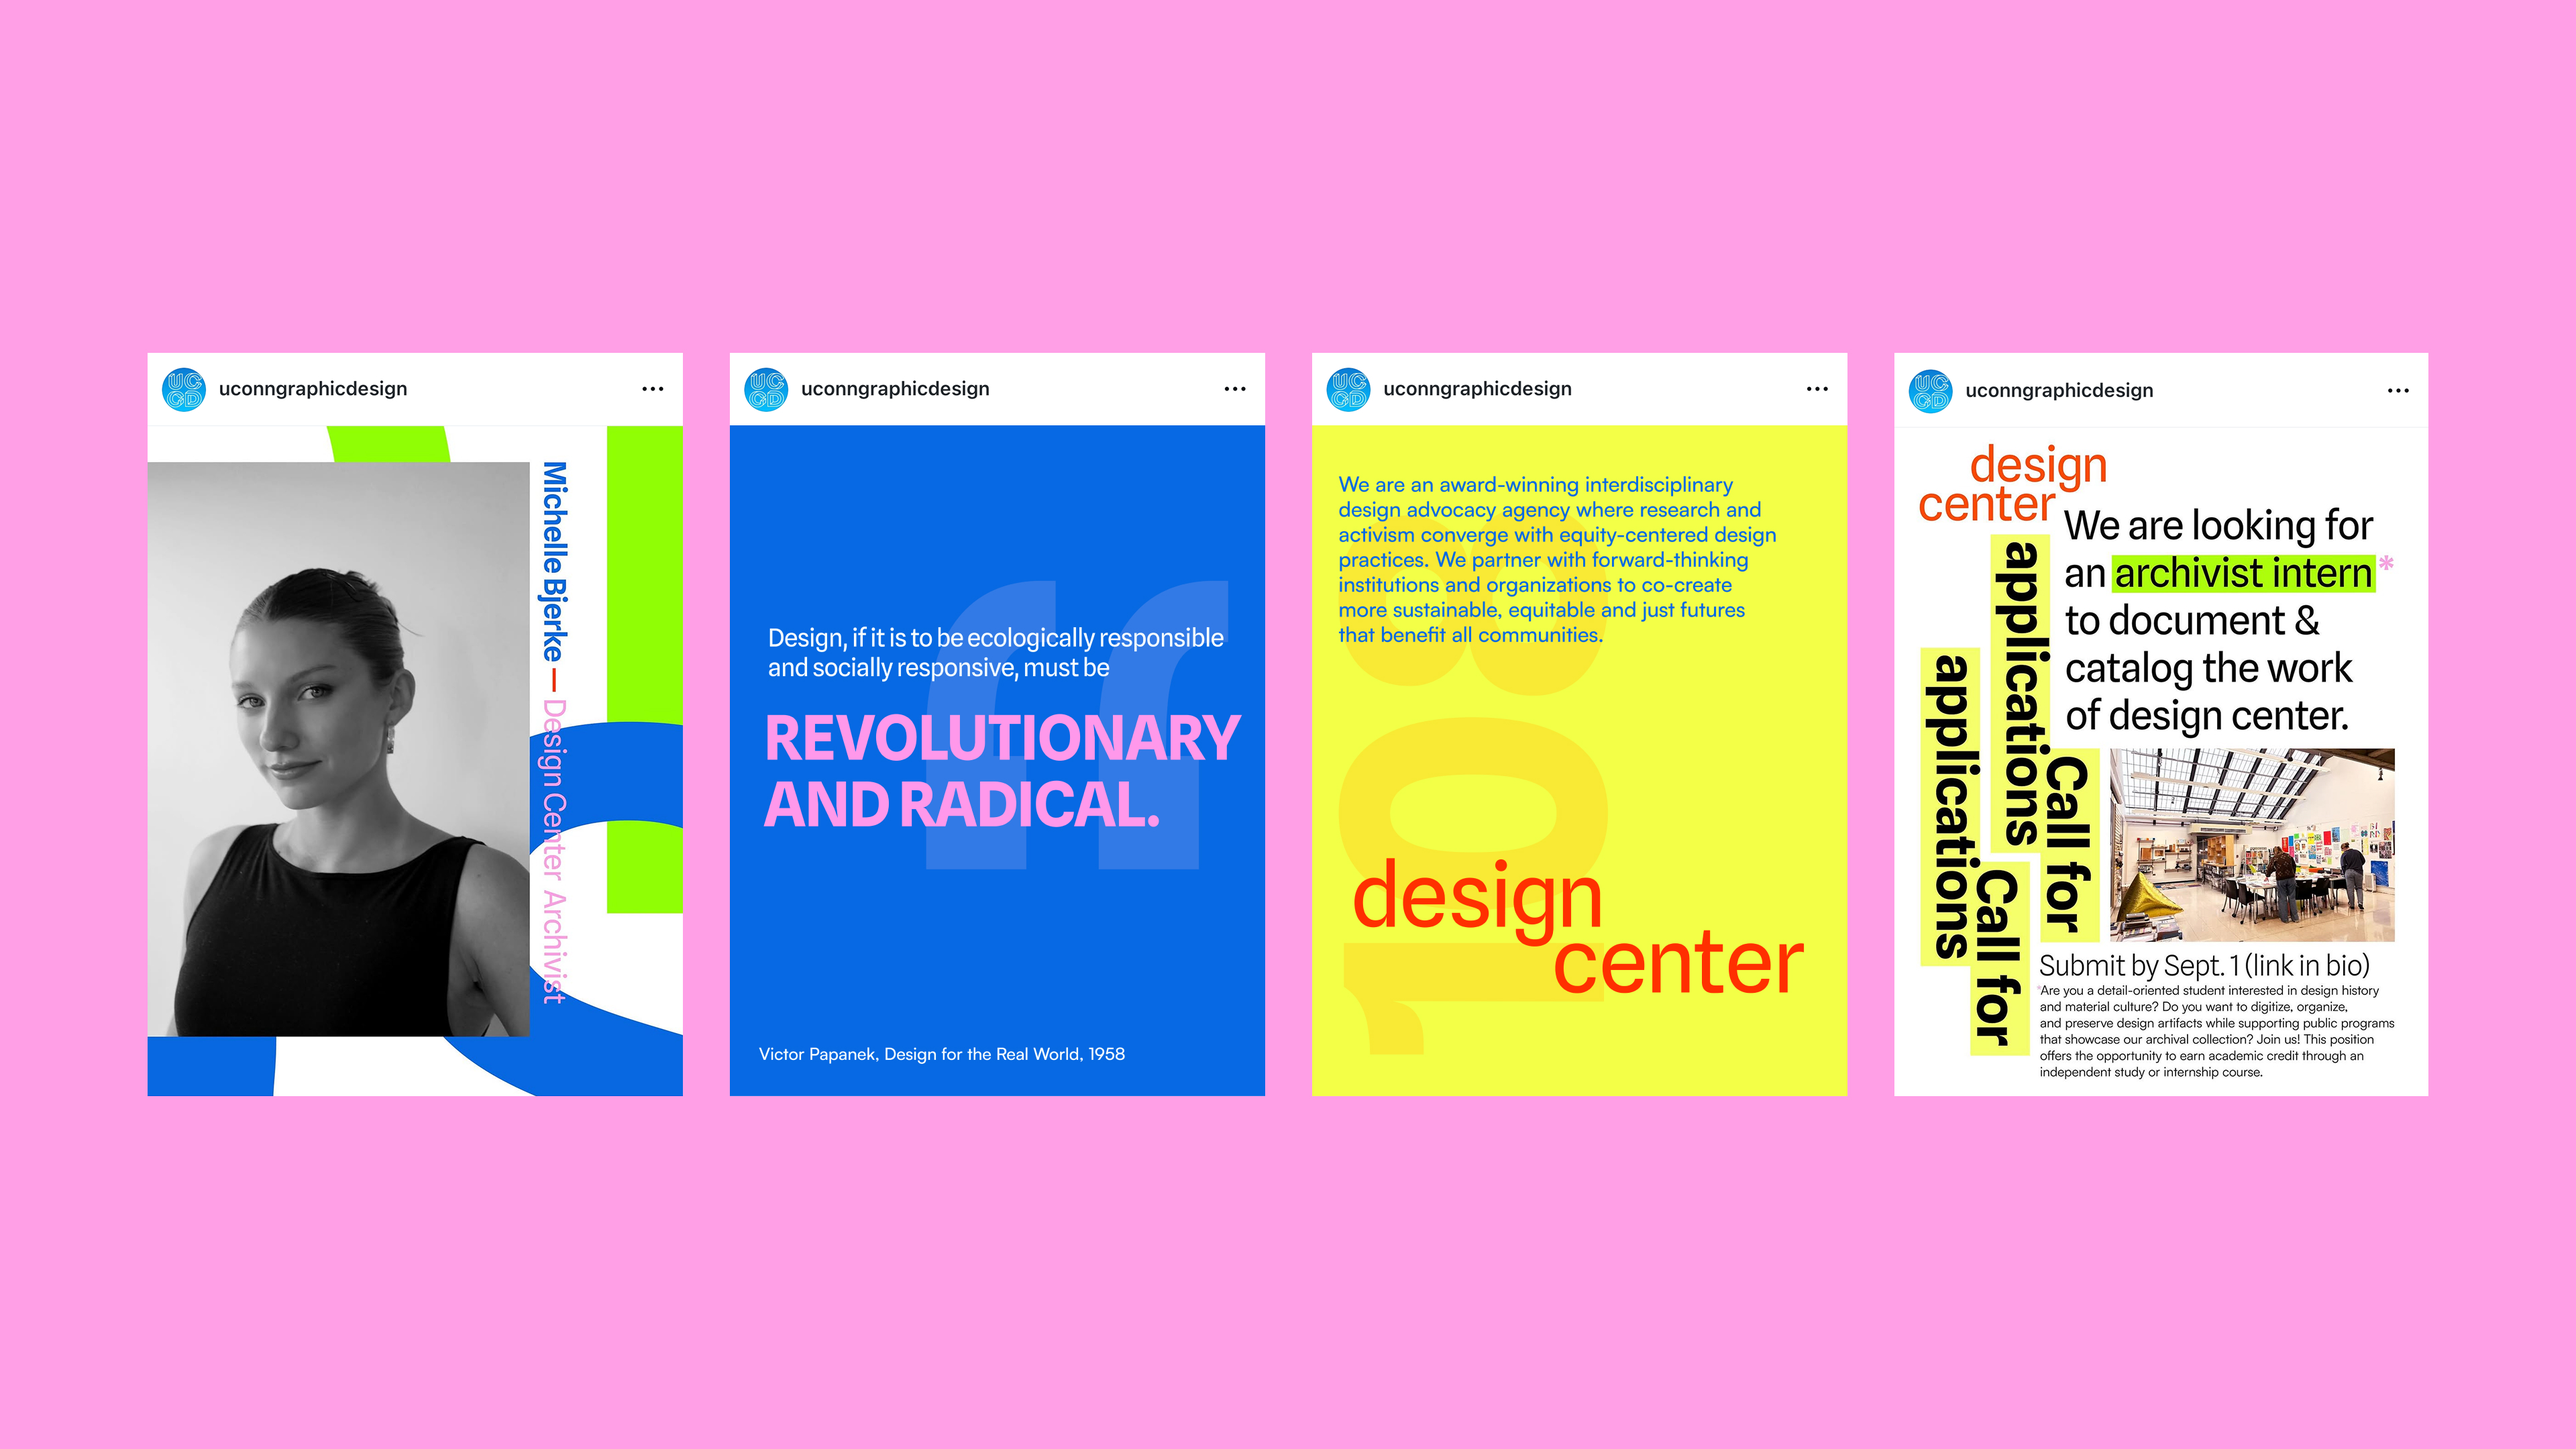
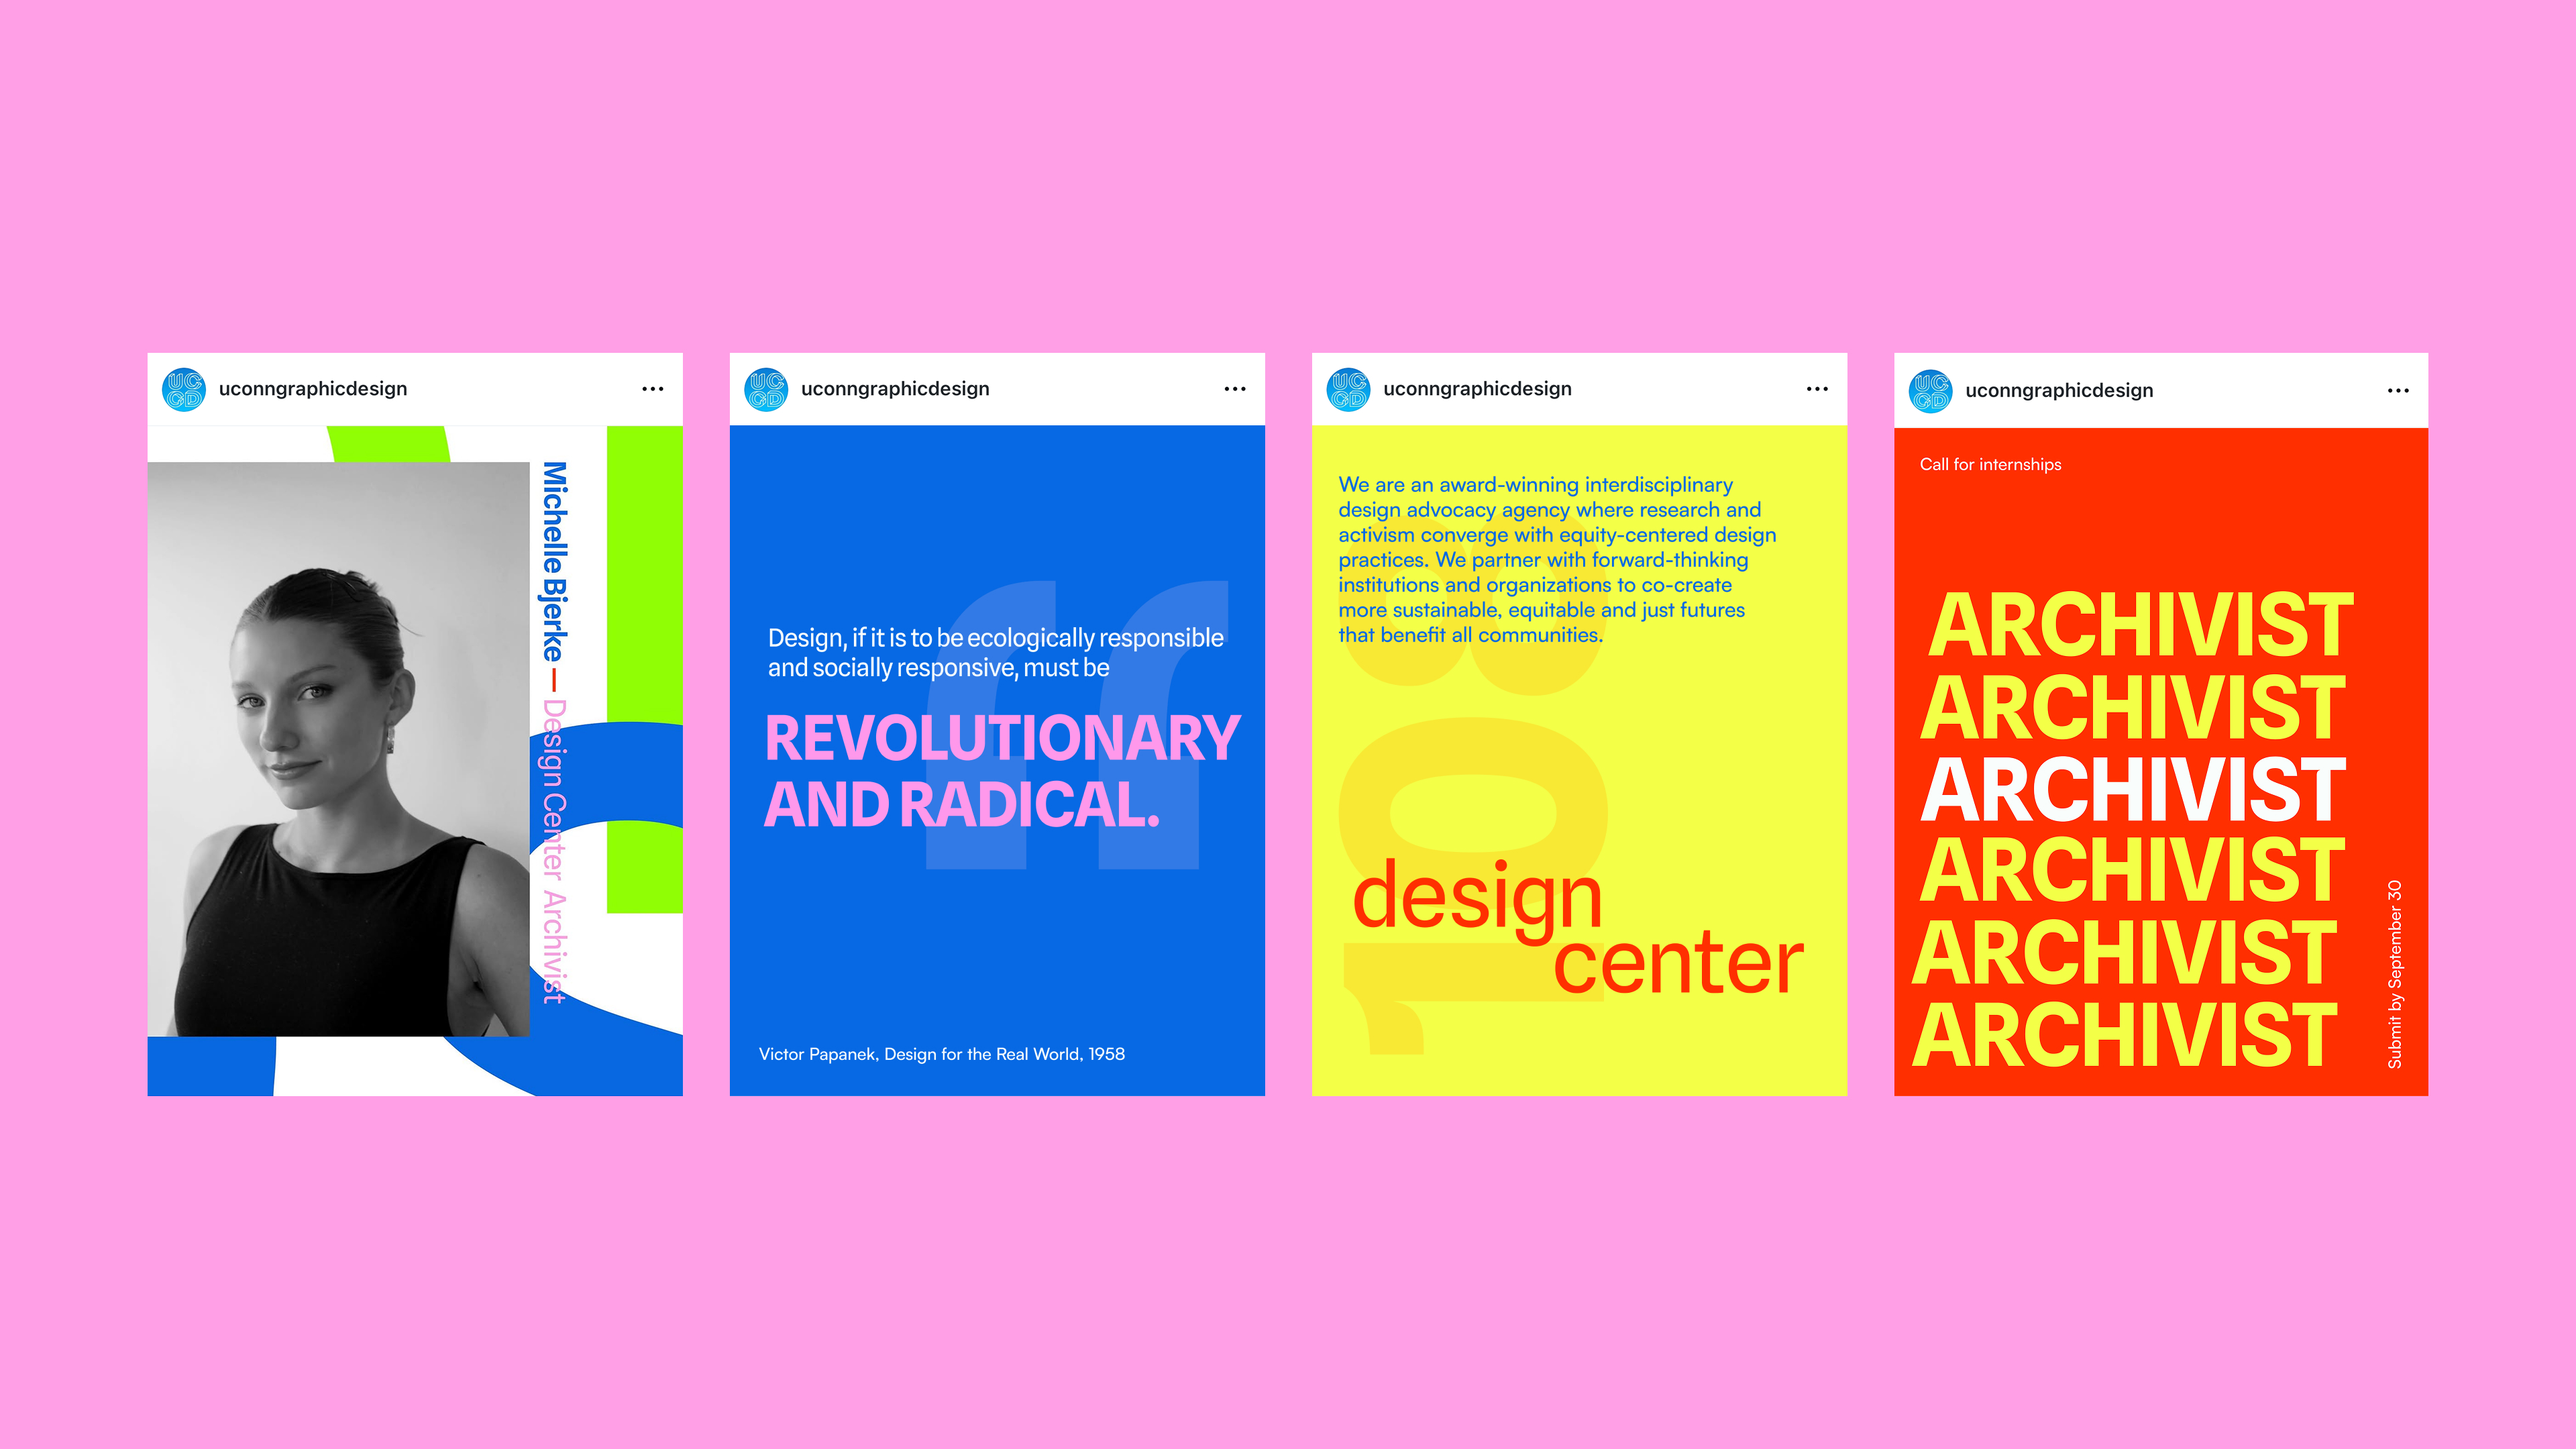
edits

Changed region(s): [[0.7188, 0.2792, 0.9688, 0.7755]]

diff --git a/senior-proj.html b/senior-proj.html
@@ -79,36 +79,6 @@
       </ul>
     </div>
     </section>
-    <div class="clouro-static-screens">
-      <img src="images/clouro-screens-layout-portfolio1.jpg" alt="three screen flat layout of three app screens:">
-      <img src="images/clouro-screens-layout-portfolio2.jpg" alt="three screen flat layout of three app screens:">
-    </div>
-    <iframe class="clouro-walkthrough" width="100%" height="auto" src="https://www.youtube.com/embed/2c4EhbmhxfE?si=dll0EpD9Uv65lEiZ" title="YouTube video player" frameborder="0" allow="accelerometer; autoplay; clipboard-write; encrypted-media; gyroscope; picture-in-picture; web-share" referrerpolicy="strict-origin-when-cross-origin" allowfullscreen></iframe>
-      <!-- 
-    <div class="clouro-bc-1">
-    <img src="images/clouro-web-img.png" alt="baby holding onto mother's jeans: circular fashion for everyone">
-  </div>
-  </section>
-  <section class="naming-clouro">
-    <div class="clouro-bc2">
-      <h2>Brand Concept</h2>
-      <p class="senior-p">Clouro believes that everyone should have access to the information they need to make sustainable fashion decisions. In a world saturated by greenwashing tactics designed to hide harmful policies and strip consumers of their purchasing agency, Clouro aims to cut through the noise and provide consumers with the truth that they deserve. With a dedication to transparency and reducing the environmental and social impact of fast fashion, the brand seeks to empower individuals to change their clothing consumption habits and embrace more sustainable practices: to buy better and less.
-      </p>
-    </div>
-    <div class="naming-c1">
-      <h3>Naming</h3>
-      <p class="senior-p">The name Clouro is derived from the ouroboros, an ancient symbol depicting a snake or dragon eating it’s own tail that represents the cycle of destruction and rebirth. </p>
-      <p class="senior-p">The ouroboros supports the brand’s focus on circular fashion and the desire to create a ‘closed-loop’ consumption culture that values recycling and regeneration. While the symbol itself is not an explcit brand element, it’s story will live in the brand through circular elements as an elevated motif. </p>
-    </div>
-  </section>
-    -->
-  <section class="app-rationale-clouro">
-  <h2>Real Support</h2>
-  <div class="app-p">
-  <p>Clouro's high-fidelity app prototype is a comprehensive tool for purchasing and learning about sustainable fashion. By providing transparent, clear information on clothing brands, including their materials, origins, production processes, and the real-world implications of each purchase, Clouro equips consumers with the tools they need to make sustainable fashion decisions. </p>
-  <p>The app also aims to educate consumers on sustainability beyond the purchase through clothing care and repair tips, thrift store recommendations, and more.  Key features include clear sustainability ratings and information, clothing lifespan metrics, personalized educational content, and community forums. </p>
-</div>
-</section>
     <section class="clouro-marketing">
       <div class="clouro-marketing-images">
         <div class="marketing-billboard">
@@ -146,6 +116,37 @@
             <img src="images/clouro-bg12.png" alt="Image 2">
         </div>
 </section>
+  <section class="app-rationale-clouro">
+  <h2>Real Support</h2>
+  <div class="app-p">
+  <p>Clouro's high-fidelity app prototype is a comprehensive tool for purchasing and learning about sustainable fashion. By providing transparent, clear information on clothing brands, including their materials, origins, production processes, and the real-world implications of each purchase, Clouro equips consumers with the tools they need to make sustainable fashion decisions. </p>
+  <p>The app also aims to educate consumers on sustainability beyond the purchase through clothing care and repair tips, thrift store recommendations, and more.  Key features include clear sustainability ratings and information, clothing lifespan metrics, personalized educational content, and community forums. </p>
+</div>
+</section>
+    <div class="clouro-static-screens">
+      <img src="images/clouro-screens-layout-portfolio1.jpg" alt="three screen flat layout of three app screens:">
+      <img src="images/clouro-screens-layout-portfolio2.jpg" alt="three screen flat layout of three app screens:">
+    </div>
+    <iframe class="clouro-walkthrough" width="100%" height="auto" src="https://www.youtube.com/embed/2c4EhbmhxfE?si=dll0EpD9Uv65lEiZ" title="YouTube video player" frameborder="0" allow="accelerometer; autoplay; clipboard-write; encrypted-media; gyroscope; picture-in-picture; web-share" referrerpolicy="strict-origin-when-cross-origin" allowfullscreen></iframe>
+      <!-- 
+    <div class="clouro-bc-1">
+    <img src="images/clouro-web-img.png" alt="baby holding onto mother's jeans: circular fashion for everyone">
+  </div>
+  </section>
+  <section class="naming-clouro">
+    <div class="clouro-bc2">
+      <h2>Brand Concept</h2>
+      <p class="senior-p">Clouro believes that everyone should have access to the information they need to make sustainable fashion decisions. In a world saturated by greenwashing tactics designed to hide harmful policies and strip consumers of their purchasing agency, Clouro aims to cut through the noise and provide consumers with the truth that they deserve. With a dedication to transparency and reducing the environmental and social impact of fast fashion, the brand seeks to empower individuals to change their clothing consumption habits and embrace more sustainable practices: to buy better and less.
+      </p>
+    </div>
+    <div class="naming-c1">
+      <h3>Naming</h3>
+      <p class="senior-p">The name Clouro is derived from the ouroboros, an ancient symbol depicting a snake or dragon eating it’s own tail that represents the cycle of destruction and rebirth. </p>
+      <p class="senior-p">The ouroboros supports the brand’s focus on circular fashion and the desire to create a ‘closed-loop’ consumption culture that values recycling and regeneration. While the symbol itself is not an explcit brand element, it’s story will live in the brand through circular elements as an elevated motif. </p>
+    </div>
+  </section>
+    -->
+    <!-- 
   <div class="competitor-type">
   <h2>Competitor Analysis</h2>
   <p class="senior-p">In my competitor analysis, I analyzed 3 direct and 3 indirect competitors. I primarily focused the features of each app/website had and their brand elements such as taglines and look and feel. These are the direct competitors:</p>
@@ -321,6 +322,7 @@
     <iframe style="border: none" width="100%" height="auto" src="https://embed.figma.com/design/eI94q3sDnMQz0EfJ8cSYvT/Clouro--hifi-2?node-id=0-1&embed-host=share" allowfullscreen></iframe>
   </div>
 </section>
+-->
 
 
 

diff --git a/designcenter.html b/designcenter.html
@@ -70,6 +70,17 @@
               </ul>
             </div>
           </section>
+           <section class="brand-guidelines">
+        <div class="image-grid-clouro">
+            <img src="images/dc-slide1.png" alt="Image 1">
+            <img src="images/dc-slide2.png" alt="Image 2">
+            <img src="images/dc-slide3.png" alt="Image 2">
+            <img src="images/dc-slide4.png" alt="Image 2">
+            <img src="images/dc-slide5.png" alt="Image 2">
+            <img src="images/dc-slide6.png" alt="Image 2">
+            <img src="images/dc-slide7.png" alt="Image 2">
+        </div>
+</section>
           <section class="dc-2">
           <img src="images/DC-business-card-mockup-on-mat.jpg" alt="business card of design center's director, Dina Benbrahim, on a cutting mat.">
           <video autoplay muted loop playsinline>
@@ -83,7 +94,6 @@
                   <img src="images/dc-poster-mockup.jpg" alt="poster calling for design students to join design center">
           <img src="images/dc-tote-bag-mockup.jpg" alt="design center tote bag with yellow and pink pattern on it.">
         </section>
-        <img src="images/dc-social-2.jpg" class="dc-social-gallery" alt="gallery of social media posts for design center. these encourage students to join, showcase a book feature, design center's mission, and open positions.">
         <section class="process-dc">
           <div class="process-dc-type">
           <h3>Behind-The-Scenes</h3>

diff --git a/css/lillians.css b/css/lillians.css
@@ -1301,6 +1301,7 @@ button.slider-prev i, button.slider-next i {
 }
 .clouro-walkthrough {
   margin-top:20px;
+  margin-bottom:40px;
 }
 .gallery-display {
   margin: 20px;
@@ -2438,6 +2439,7 @@ h2 {
   margin-bottom:80px;
 }
 .process-dc-type{
+  margin-top:40px;
   margin-left:0px;
   margin-right:0px;
 }
@@ -3059,6 +3061,9 @@ max-width:650px;
     overflow:hidden; 
     align-items:center;    /* fixed row height */
   }
+  .clouro-walkthrough {
+  margin-bottom:80px;
+}
 
   .clouro-marketing-images img {
     flex: 1;            /* equal width for each image */
